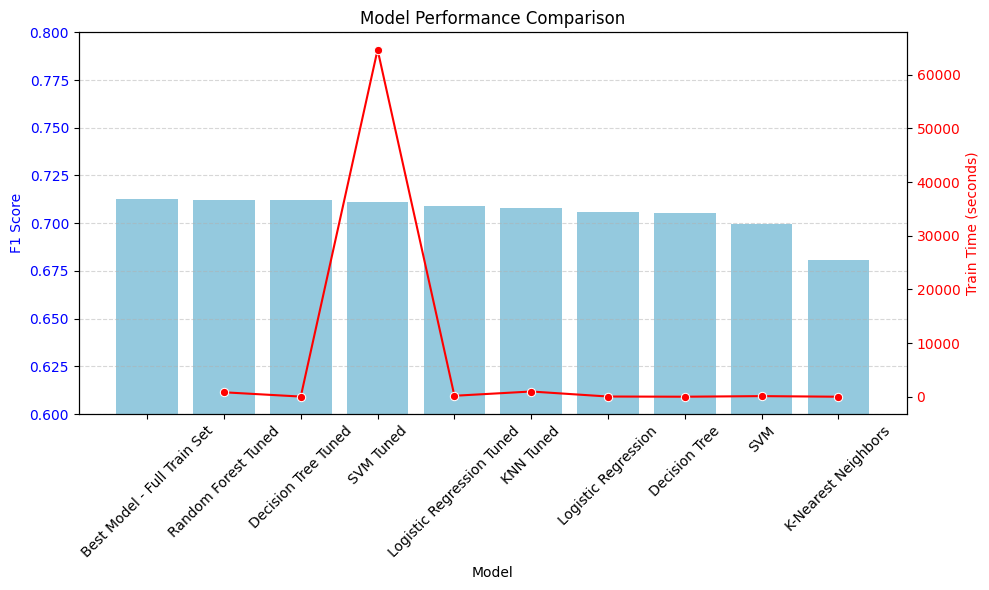
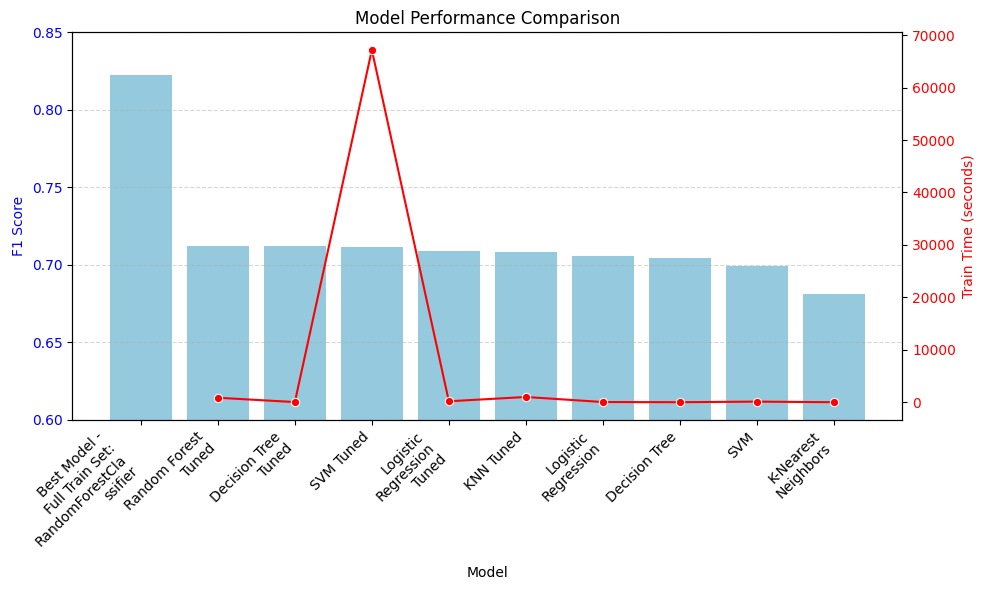
Updte for TIme taken and results plot

diff --git a/Capstone_Project_Module24_Final_Submission/README.md b/Capstone_Project_Module24_Final_Submission/README.md
@@ -142,6 +142,9 @@ Four baseline classifiers (`Logistic Regression`, `K-Nearest Neighbors`, `Decisi
 | **9** | **K-Nearest Neighbors (Baseline)** | 0.32 | 0.7871 | 0.6819 | 0.6848 | 0.6809 | 0.9095 | Default (`n_neighbors=5`) |
 | — | *Random Forest Tuned (Full Train Set Eval)* | — | *0.8242* | — | *0.8766* | *0.8224* | *0.9613* | *Evaluated on all 312,963 training rows (Recall = 0.8242)* |
 
+![ Time Taken To Train plot ](code/images/TimeTakenToTrainAndF1Score.png)
+
+
 * **Winning Model (`Random Forest Tuned`)**: Achieved the highest test weighted F1 score (**0.712359**) and a **0.961298** multiclass ROC-AUC (`ovr`, weighted).
 * **Regularization Impact on Tree Models**: The unconstrained baseline `Decision Tree` memorized the training set (`Train Accuracy = 1.0000`, `Test Accuracy = 0.7045`, `ROC-AUC = 0.8444`). Constraining `max_depth=20` and `min_samples_leaf=3` in `Decision Tree Tuned` reduced training accuracy to **0.7347**, boosted test F1 to **0.7121**, and jumped ROC-AUC by **+11.11 percentage points** to **0.9555** in just **29.19 seconds**.
 * **Diminishing Returns of Kernel SVM at Scale**: `SVM Tuned` (`kernel='rbf'`, `probability=True`) required **67,184.43 seconds (~18.66 hours)** to complete 90 fits across 312,963 training rows, achieving a marginally higher test accuracy (**0.7181**) but a lower weighted F1 (**0.7113**) than `Random Forest Tuned` and `Decision Tree Tuned`.
